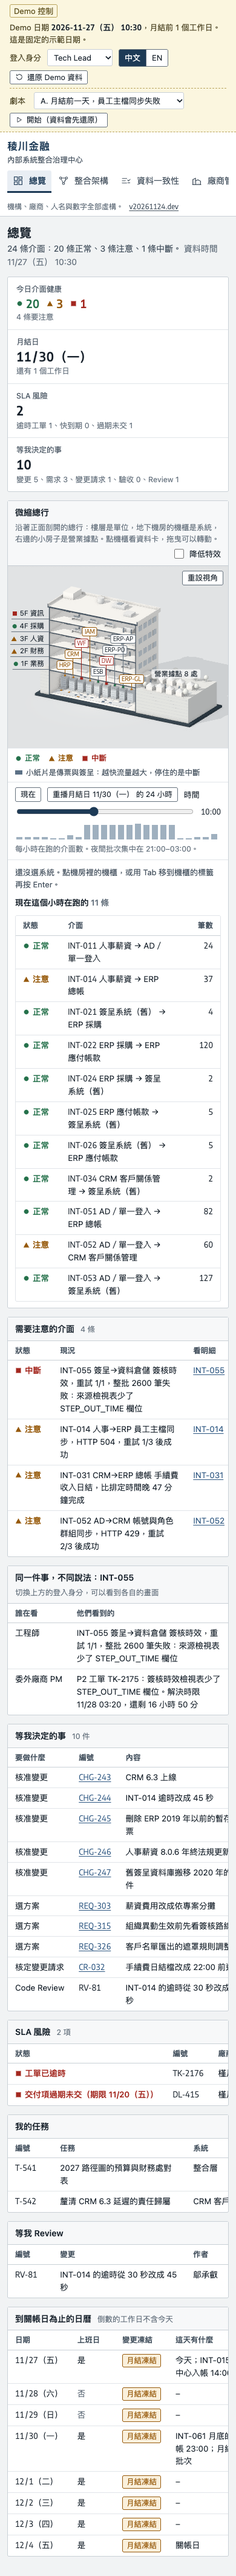
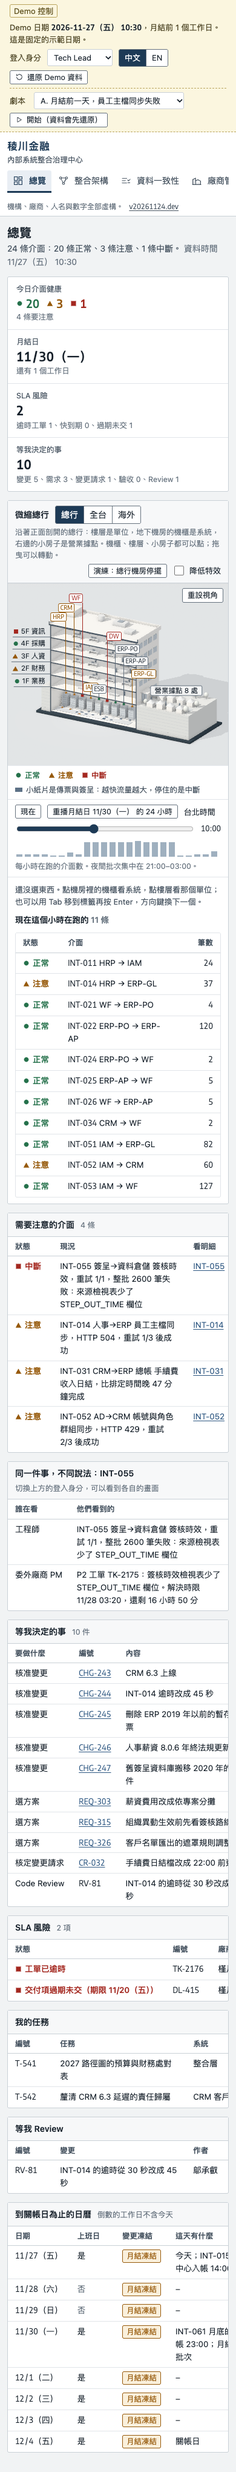
docs: ADR 0007 記下三個比例尺，截圖補上全台、演練與海外
為什麼海外不做地球、全台為什麼橫躺、時差為什麼不寫死、演練為什麼不改資料；
以及代價：延遲載入的那一包變大、打包時踩到的坑、哪些資料是編的。
README 的限制與資料出處、Demo 腳本、截圖清單一併更新。

Changed region(s): [[0.0308, 0.0, 0.9846, 0.9968], [0.7692, 0.0623, 0.9538, 0.1246]]

diff --git a/scripts/screenshots.ts b/scripts/screenshots.ts
@@ -25,6 +25,9 @@ const SHOTS: Shot[] = [
   { file: '02-overview-finance', hash: '/overview', role: 'finance' },
   { file: '16-twin-impact', hash: '/overview?focus=hr&what=if' },
   { file: '22-twin-night', hash: '/overview?focus=erp-gl', hour: 23 },
+  { file: '23-twin-taiwan', hash: '/overview?view=tw&site=br-tc' },
+  { file: '24-twin-drill', hash: '/overview?view=tw&drill=3' },
+  { file: '25-twin-overseas', hash: '/overview?view=world&site=os-nyc', hour: 23 },
   { file: '07-integration', hash: '/integration' },
   { file: '08-integration-iface', hash: '/integration?iface=INT-014' },
   { file: '09-integration-impact', hash: '/integration?sys=hr&impact=hr' },

diff --git a/docs/adr/0007-twin-scales.md b/docs/adr/0007-twin-scales.md
@@ -1,0 +1,64 @@
+# ADR 0007：3D 做成三個比例尺，共用一條時間軸
+
+- 狀態：已採用
+- 日期：2026-11-24
+
+## 背景
+
+3D 原本只有一棟總行（ADR 0006）。它回答得了「哪個系統出事、哪層樓受影響」，回答不了另外三種問題：
+
+- **多點**：系統不全在總行。CRM 放在廠商的機房；有備援的系統在異地各有一套待命的環境。
+- **跨區域**：8 處營業據點分在北中南三區，它們連不連得上、手上壓了幾件簽呈，總行的剖面上只有一排一模一樣的小房子。
+- **跨時區**：假設這家機構有海外據點，總行的「夜間批次」對紐約來說是上午十點。
+
+另外，原本能操作的只有「點機櫃」。
+
+## 決定
+
+**同一個 3D 引擎放三個模型，一次看一個，像事務所同一個案子做的三個比例尺。**
+
+| 比例尺 | 模型                                                  | 回答的問題                               |
+| ------ | ----------------------------------------------------- | ---------------------------------------- |
+| 總行   | 剖開的總行（`three/model.ts`）                        | 哪個系統出事，哪個單位受影響             |
+| 全台   | 疊板做的台灣、三個機房、8 處據點（`three/island.ts`） | 東西放在哪，停一個機房會怎樣             |
+| 海外   | 時區桌（`three/zones.ts`）                            | 各地現在幾點，總行的批次撞到誰的上班時間 |
+
+三個比例尺共用同一條時間軸、同一份故障、同一個演練。換比例尺只是換一個模型上桌，狀態不會重算成另一套。
+
+**為什麼海外不做地球。** 地球一次只看得到半邊，而這裡要比的正是地球兩邊的據點（台北與紐約差 13 小時）。攤平成一張桌子，24 格各是一個時區，所有據點與時差一眼看完。格子的深淺是當地的白天或晚上，前緣的深色短條是當地的上班時段；時間往前走，它們一格一格往左移。
+
+**為什麼全台是橫躺的。** 鏡頭從西邊看過來，北在左、南在右。據點都在西部平原，這樣它們朝著觀看的人，不會被山擋住；橫的島也比較吃得滿橫的畫面。位置是示意：海岸線只取了 29 個點，靠太近的據點會被推開，城市往內陸收了一點（不然房子有一半掛在海上）。
+
+**時差不寫死。** 每個海外據點存的是時區名稱（`America/New_York`），差幾小時由瀏覽器的時區資料庫算（`core/sites.ts` 的 `tzOffsetMin`）。紐約夏天與冬天跟台北的時差不一樣，寫死的數字每年會錯兩次。有測試守著 11 月與 7 月兩個時間點。
+
+**演練不改資料。** 「總行機房停擺」跟「如果它停了」是同一種東西：只是換一份模型來畫。每個系統有一個復原時間目標（RTO），演練的時間點就是這些目標排出來的；停擺後第幾小時哪些系統已經在備援中心接手，完全由 RTO 推出來（`core/drill.ts`）。演練要講的一句話是：ERP 四小時就回來，但簽呈系統只有每日備份、要三天，這三天每層樓都還是受影響。
+
+**3D 與 2D 還是同一份。** 新增的 `sitesModel()` 吃的是 `twinModel()` 的結果，所以時間、故障與演練一定一致。每個比例尺在右邊都有一張同樣內容的表；沒有 WebGL 時，左邊就是那張表。
+
+**互動。**
+
+- 滑過或選取一樣東西，跟它無關的小紙片退成淺灰。選 CRM，就只剩 CRM 的往來還有顏色。
+- 樓層可以點：只列那個單位的介面，它每天在用的系統腳下多一圈。
+- 總行旁邊的小房子可以點：換到全台，並且選好那一處據點。
+- 標籤是按鈕，Tab 進得去，方向鍵在同一種標籤之間移動，再按一次同一個是取消。
+- 選了什麼都寫在網址上（`view`、`focus`、`floor`、`site`、`region`、`drill`），可以直接貼給別人。
+
+**狀態標記換成正對鏡頭的平面形狀。** 全台與海外的鏡頭抬得比較高，立體的三角錐從上面看會變形。平面的圓、三角、方塊跟 2D 頁面上的標記是同一套。
+
+**擠在一起的標籤掛成旗子。** 台北、板橋、桃園在模型上只差幾十個像素。標籤從兩邊往中間放，每個由低到高找位置，同一個高度先試置中，再試掛在引線的右邊或左邊；不能壓到別的標籤與引線，也不能擋住還沒放的標籤要走的那一直線。
+
+## 代價
+
+- **延遲載入的那一包變大**：約 157 kB → 約 180 kB（gzip）。多的是另外兩個模型、把輪廓長出厚度要用的 `ExtrudeGeometry`，以及另外兩個比例尺的面板。
+- **首屏的 JS**：82.8 kB → 87.7 kB（上限 90 kB）。多的是機房與海外據點的資料、演練，以及比例尺切換。另外兩個比例尺的面板（`ui/twinScales.ts`）跟 3D 放在同一包延遲載入。
+- **打包的一個坑**：延遲載入的那一包如果直接 import 首屏的 UI 模組（`ui/dom.ts`、`ui/widgets.ts`），打包工具會把首屏拆成好幾個檔，壓縮之後是 91 kB，超過上限。所以那些小工具由面板借給它（`ctx.ui`），不直接 import。這條規則寫在 `twinScales.ts` 開頭。
+- **新增的資料全部是編的**：三個機房的位置、每個系統的備援做法與 RTO／RPO、六個海外據點的人數與件數、資訊處的一般支援時段（08:00–20:00）。城市的經緯度與時區名稱是真的。
+- **各地只算週一到週五 09:00–18:00**，當地的假日沒有算進來。
+- **據點的狀態每一處都一樣**：它們用的是同一批總行的系統，模型裡沒有「某一處據點自己的線路斷了」這種事。
+- **換比例尺是直接切換**，沒有鏡頭拉遠拉近的過場。
+
+## 怎麼守住
+
+- `tests/unit/sites.test.ts`：時差、各地的時鐘與上班與否、批次重疊、區域小計等於據點加總、演練的每個時間點、營業日跨 26 小時。
+- `tests/e2e/smoke.e2e.ts`：三個比例尺切換與標籤數量、據點標籤互不重疊、點樓層與方向鍵、重播到 23 點時紐約的資料卡、演練從頭走到尾、沒有 WebGL 時另外兩個比例尺也有表格。
+- `scripts/check-bundle.ts`：首屏不能超過 90 kB，也不能出現 three。

diff --git a/docs/demo-script.md b/docs/demo-script.md
@@ -16,6 +16,7 @@
 - **劇本 B**：CRM 廠商交付延遲又被退件。在廠商頁按「退件」與「核定」，劇本會跟著走，最後留下決策紀錄 DEC-110。
 - **劇本 C**：汰換舊簽呈。新舊並行對帳多一條規則 RC-11，切換變更有五項把關，最後寫進路徑圖。
 - **3D**：點機櫃開資料卡，按「注入故障」，受影響的樓層會換色，所有頁面的數字一起變。按「重播月結日」：影子跟著時間移動，入夜後只剩機房亮著，紙片集中在 ERP 那幾個機櫃。
+- **3D 的三個比例尺**：標題旁邊切「全台」，看三個機房與 8 處據點；按「演練：總行機房停擺」，把時間點從「當下」按到「3 天」，看哪些系統先在備援中心接手、簽呈為什麼拖到最後。切「海外」，把時間軸拉到 23 點：台北天黑了，紐約是週一上午十點，正好撞上夜間批次。
 - **權限矩陣**：用系統管理員登入，把「核准發版與變更」勾給內部工程師，上面立刻出現職責分離衝突。
 - **路徑圖**：切換「財務看的版本」與「工程看的版本」。2 月的凍結期因為春節連假延到 2/11。
 

diff --git a/docs/adr/0002-lazy-islands.md b/docs/adr/0002-lazy-islands.md
@@ -5,7 +5,7 @@
 
 ## 背景
 
-需要兩個大的函式庫：`@xyflow/react`（連同 React，gzip 約 156 kB）與 `three`（連同一道後製，約 157 kB）。
+需要兩個大的函式庫：`@xyflow/react`（連同 React，gzip 約 156 kB）與 `three`（連同一道後製、三個比例尺的模型與面板，約 180 kB）。
 大部分的頁面是表格，用不到它們。不懂技術的主管用公司的舊筆電開，首屏要快。
 
 ## 決定
